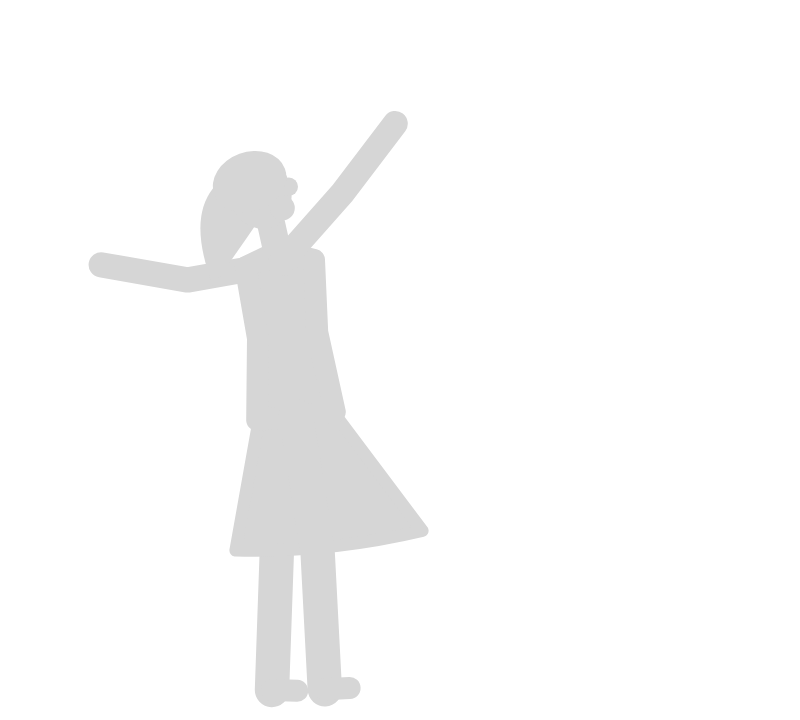
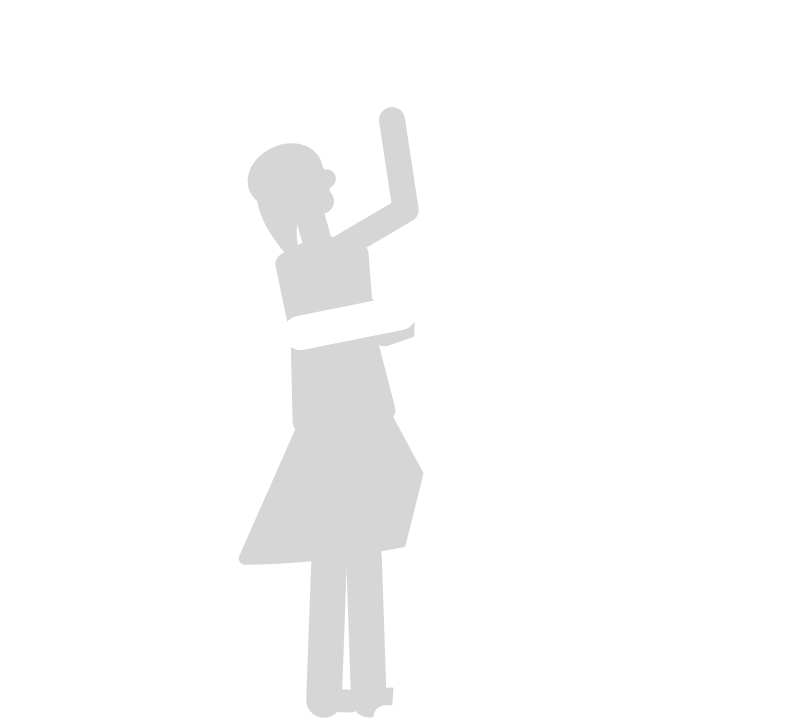
Partner moments: slow-dance pose, legs in front of the couch seat, bigger bike for him
Claude-Session: https://claude.ai/code/session_0163xH4XRYdHcSjt4CmHkq4N

Changed region(s): [[0.0938, 0.1528, 0.5312, 1.0]]

diff --git a/tools/partner/make_silhouettes.py b/tools/partner/make_silhouettes.py
@@ -355,18 +355,22 @@ def moments():
                     (164, 148), (30, 20), (176, 18)])
     scenes.append(rain + her.svg() + him.svg() + umbrella)
 
-    # 4. Dancing: he lifts her hand and she twirls, both feet on the floor.
-    him = Figure((134, 102), facing=-1, scale=0.85, lean=-4, head=-6, legs=((-10, -4), (12, 2)))
-    her = Figure((74, 104), facing=1, woman=True, scale=0.85, lean=-6, head=-14, sway=10, skirt=1.0,
-                 legs=((-8, -2), (9, 3)))
-    meet = (104, 24)
-    him.reach(1, meet, elbow=1)
+    # 4. Dancing: a slow dance, close, his arm round her back, their other
+    # hands raised together; she leans back a little and her skirt swings.
+    him = Figure((116, 102), facing=-1, scale=0.9, lean=-2, head=10, legs=((-8, -2), (14, 4)))
+    her = Figure((86, 104), facing=1, woman=True, scale=0.88, lean=-8, head=-16, sway=-8, skirt=1.1,
+                 hair=1.3, legs=((-6, -2), (8, 2)))
+    meet = (98, 30)
     her.reach(1, meet, elbow=-1)
-    her.arms[0] = [-80, -100]
-    him.reach(0, add(her.hip, (6, -30)))
-    notes = stroke("M 26 40 l 0 -14 l 8 -3 l 0 14", 2) + '<circle cx="24" cy="40" r="3" fill="#fff"/>' \
-        + '<circle cx="32" cy="37" r="3" fill="#fff"/>'
-    scenes.append(notes + her.svg() + him.svg())
+    him.reach(0, add(meet, (2, 2)), elbow=-1)
+    back = add(her.hip, her.up(0, 26 * her.s))
+    him.reach(1, add(back, (-8, 0)))
+    her.reach(0, add(him.shoulder_mid, (0, 18)), elbow=-1)
+    notes = (stroke("M 26 40 l 0 -14 l 8 -3 l 0 14", 2) + '<circle cx="24" cy="40" r="3" fill="#fff"/>'
+             + '<circle cx="32" cy="37" r="3" fill="#fff"/>'
+             + stroke("M 172 30 l 0 -12", 2) + '<circle cx="170" cy="30" r="3" fill="#fff"/>')
+    scenes.append(notes + him.svg("far") + her.svg("far") + her.svg("body") + him.svg("body")
+                  + her.svg("near") + him.svg("near"))
 
     # 5. Bike rides side by side: both bikes on the same road, hers on the
     # far side, a little behind.
@@ -390,14 +394,15 @@ def moments():
         return fig
 
     # Same ground line under both: wheel bottoms at y 160.
-    bs = 0.92
-    hx, hy = 62, 160 - 17 * bs
-    mx, my = 136, 160 - 17 * bs
+    # His bike is bigger, as he is.
+    bs, ms = 0.88, 1.04
+    hx, hy = 56, 160 - 17 * bs
+    mx, my = 136, 160 - 17 * ms
     her = rider(Figure((0, 0), facing=1, woman=True, scale=0.84, lean=28, head=-16, sway=6,
                        shins=(42, 42)), hx, hy, bs)
-    him = rider(Figure((0, 0), facing=1, scale=0.9, lean=30, head=-18, shins=(42, 42)), mx, my, bs)
+    him = rider(Figure((0, 0), facing=1, scale=0.94, lean=30, head=-18, shins=(42, 42)), mx, my, ms)
     road = stroke("M 10 161 L 190 161", 2.5, PROP_BACK)
-    scenes.append(road + bike(hx, hy, HER, bs) + her.svg() + bike(mx, my, PROP, bs) + him.svg())
+    scenes.append(road + bike(hx, hy, HER, bs) + her.svg() + bike(mx, my, PROP, ms) + him.svg())
 
     # 6. Cooking together: he holds the pan, she tastes from a spoon.
     him = Figure((140, 118), facing=-1, scale=0.9, lean=6, head=8)
@@ -432,15 +437,16 @@ def moments():
     sofa_front = (rect(26, 116, 148, 18, 6, PROP_BACK) + rect(16, 92, 22, 46, 8, PROP_BACK)
                   + rect(162, 92, 22, 46, 8, PROP_BACK)
                   + stroke("M 36 136 L 36 148 M 164 136 L 164 148", 5, PROP_BACK))
-    her = Figure((78, 118), facing=0, woman=True, scale=0.82, lean=14, head=12, shins=(10, 36),
+    her = Figure((78, 118), facing=0, woman=True, scale=0.82, lean=14, head=12, shins=(6, 30),
                  legs=((4, 2), (-2, 0)))
-    him = Figure((122, 116), facing=0, scale=0.85, lean=-3, shins=(10, 38), legs=((-2, 0), (4, 2)))
+    him = Figure((122, 116), facing=0, scale=0.85, lean=-3, shins=(6, 32), legs=((-2, 0), (4, 2)))
     him.reach(0, add(her.shoulder(0), (-2, 6)), elbow=1)
     him.reach(1, add(him.hip, (10, 4)))
     lap = add(her.hip, (4, -2))
     her.reach(0, add(lap, (-2, 0)))
     her.reach(1, add(lap, (2, 2)))
-    scenes.append(sofa_back + him.svg("body") + him.svg("near") + her.svg() + him.svg("far") + sofa_front)
+    # The seat is behind their legs: they sit on it, shins down in front.
+    scenes.append(sofa_back + sofa_front + him.svg("body") + him.svg("near") + her.svg() + him.svg("far"))
 
     # 9. A picnic: sitting on a blanket, facing each other.
     blanket = '<path d="M 14 164 L 186 164 L 174 152 L 26 152 Z" fill="#ffffff"/>'
